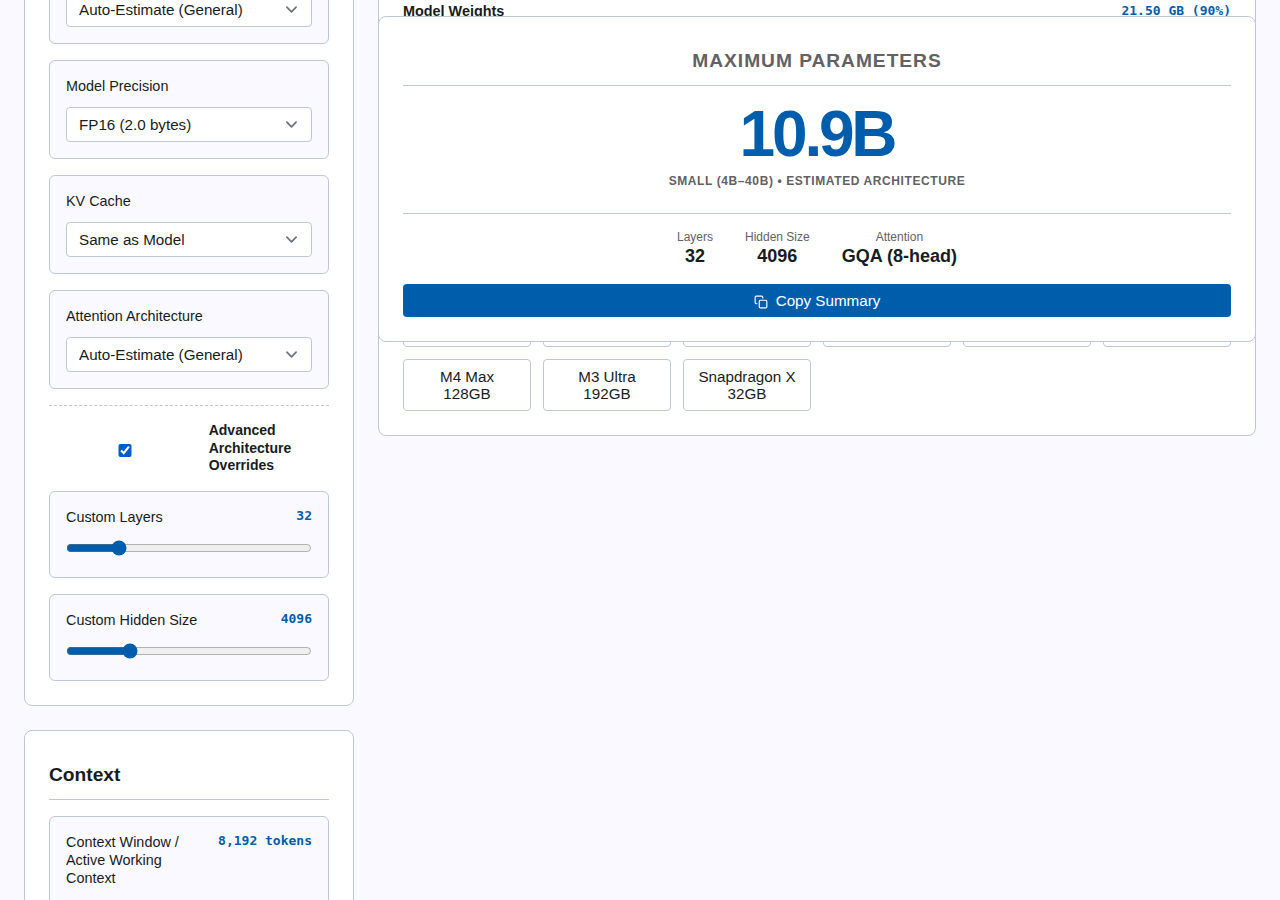
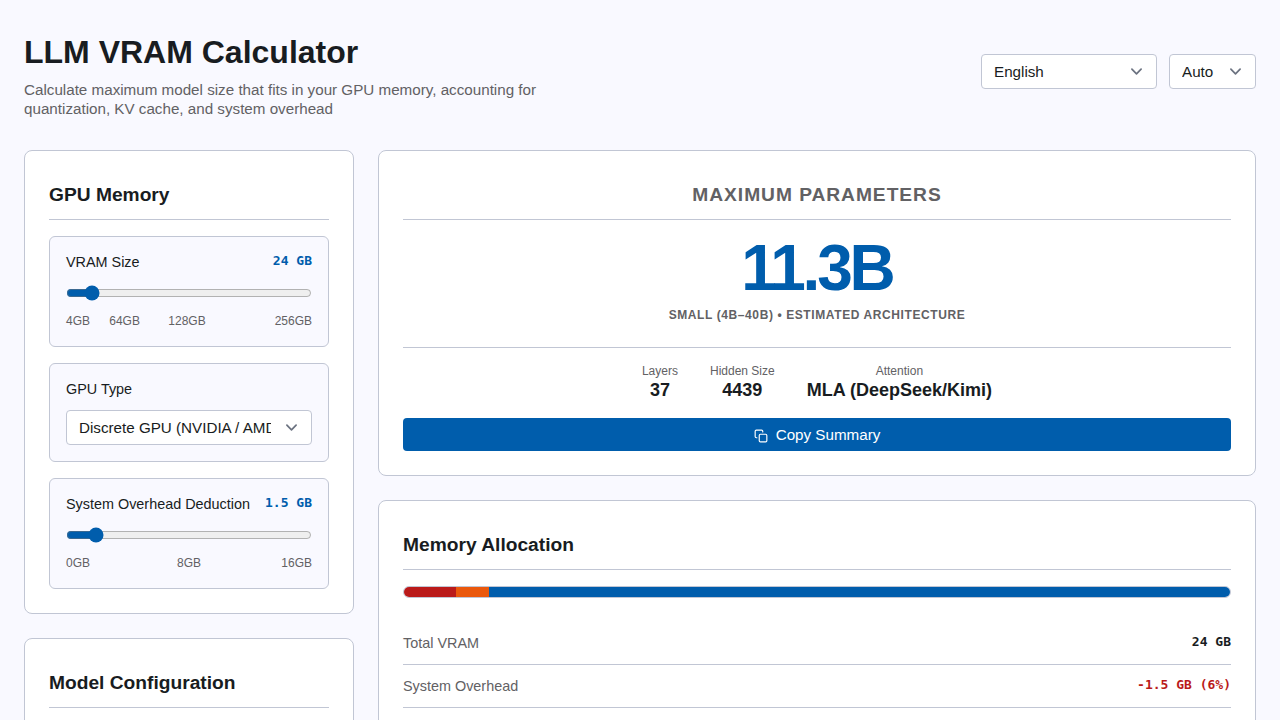
🎨 Palette: Populate Attention Architecture select options and localized labels
💡 What: Populated the Attention Architecture `<select id="attention">` options with supported mechanisms (`gqa_8`, `gqa_4`, `gqa_2`, `gqa_16`, `mha`, `mla`), added the `autoEstimate` I18n key to `text.en` and `text.id`, and updated `lang()` to dynamically localize default auto-estimate options.

🎯 Why: Users could not manually select attention mechanisms from the dropdown despite backend support in `calculateKvCache()` and `getAttentionDisplayName()`. Auto-estimate options also remained unlocalized when switching languages.

♿ Accessibility: Preserved ARIA labels (`aria-labelledby="attentionLabel"`) and ensured proper keyboard navigation across selects.

diff --git a/LLMCalculator.html b/LLMCalculator.html
@@ -703,6 +703,12 @@
 						</div>
 						<select id="attention" class="full-width" aria-labelledby="attentionLabel">
 							<option value="auto" selected>Auto-Estimate (General)</option>
+							<option value="gqa_8">GQA (8-head)</option>
+							<option value="gqa_4">GQA (4-head)</option>
+							<option value="gqa_2">GQA (2-head)</option>
+							<option value="gqa_16">GQA (16-head)</option>
+							<option value="mha">MHA (Multi-Head Attention)</option>
+							<option value="mla">MLA (DeepSeek/Kimi Multi-Head Latent Attention)</option>
 						</select>
 					</div>
 
@@ -881,6 +887,7 @@
 				referenceTitle: 'References & Methodology',
 				languageLabel: 'Select Language',
 				themeLabel: 'Select Theme',
+				autoEstimate: 'Auto-Estimate (General)',
 				copyBtn: 'Copy Summary',
 				copied: 'Copied!',
 
@@ -943,6 +950,7 @@
 				referenceTitle: 'Referensi & Metodologi',
 				languageLabel: 'Pilih Bahasa',
 				themeLabel: 'Pilih Tema',
+				autoEstimate: 'Estimasi Otomatis (Umum)',
 				copyBtn: 'Salin Ringkasan',
 				copied: 'Tersalin!',
 
@@ -1590,6 +1598,8 @@
 				elements.copyBtn.setAttribute('aria-label', this.string('copyBtn')),
 				Object.keys(text.en).forEach(k=>elements[k] && (k === 'copyBtn' ? elements[k].innerHTML = CLIPBOARD_ICON + this.string(k) : elements[k].textContent = this.string(k))),
 				[...elements.theme.options].forEach(o=>o.textContent = this.string(o.value + 'Theme')),
+				elements.modelFamily.options[0].textContent = this.string('autoEstimate'),
+				elements.attention.options[0].textContent = this.string('autoEstimate'),
 				elements.formulasSection.innerHTML = this.string('formulas'),
 				elements.architectureSection.innerHTML = this.string('architecture'),
 				elements.sourcesText.innerHTML = this.string('sources'),
